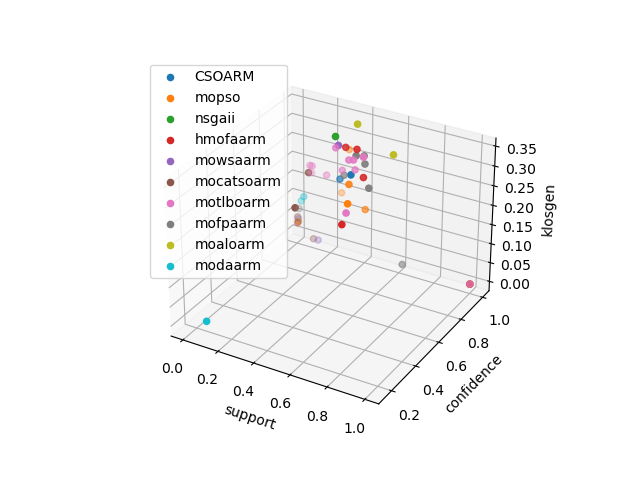
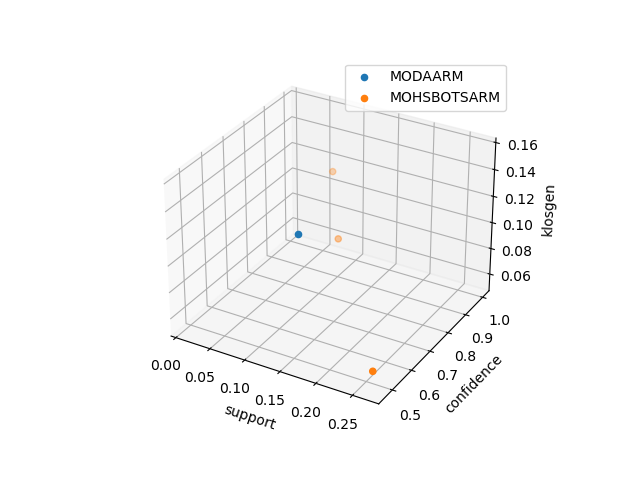
add bee swarm algorithm

diff --git a/src/Algorithm/MOHSBOTSARM.py b/src/Algorithm/MOHSBOTSARM.py
@@ -1,0 +1,102 @@
+from src.Utils.Fitness import *
+from src.Utils.Population import *
+import matplotlib.pyplot as plt
+import pandas as pd
+from scipy.spatial import distance
+from src.Utils.Graphs import *
+from time import time
+
+class MOHSBOTSARM:
+    def __init__(self,nbItem,populationSize,nbIteration,nbObjectifs,objectiveNames,data,
+                    nbChanges = 5, nbNeighbours = 50,
+                 save=True,display=True,path='Figures/'):
+        populationSize = nbItem*2
+        self.population = Population('horizontal_binary', populationSize, nbItem)
+        self.nbItem = nbItem
+        self.nbIteration = nbIteration
+        self.nbObjectifs = nbObjectifs
+        self.fitness = Fitness('horizontal_binary', objectiveNames, populationSize )
+        self.bestInd = copy.deepcopy(self.population.population[rd.randint(0,populationSize-1)])
+        self.bestIndScore = []
+        self.tabooList = []
+        self.danceTable = []
+        self.danceTableScore = []
+        self.save = save
+        self.display = display
+        self.path = path
+        self.executionTime = 0
+        self.nbNeighbours = nbNeighbours
+        self.nbChanges = nbChanges
+        self.fitness.ComputeScorePopulation(self.population.population, data)
+        self.UpdateBestInd()
+
+
+    def UpdateBestInd(self):
+        indexs = np.arange(self.population.populationSize)
+        paretoFront = np.ones(self.population.populationSize)
+        for i in range(self.population.populationSize):
+            for j in range(self.population.populationSize):
+                domination = self.fitness.Domination(self.fitness.scores[i],self.fitness.scores[j])
+                if domination == 1:
+                    paretoFront[i] = 0
+                    break
+        candidate = indexs[paretoFront == 1]
+        index = rd.choice(candidate)
+        self.bestInd = copy.deepcopy(self.population.population[index])
+        self.bestIndScore = copy.deepcopy(self.fitness.scores[index])
+
+    def FindSearchRegion(self):
+        for i in range(self.population.populationSize):
+            self.population.population[i] = self.population.InitIndividual_HorizontalBinary()
+            self.population.population[i,i] = self.bestInd[i]
+
+    def LocalSearch(self,bee,data):
+        bestInd = []
+        bestScore = np.zeros(self.nbObjectifs,dtype=float)
+        for j in range(self.nbNeighbours):
+            ind = copy.deepcopy(self.population.population[bee])
+            nbChange = rd.randint(1,self.nbChanges)
+            for i in range(nbChange):
+                index = rd.randint(0,self.nbItem*2-1)
+                ind[index] = rd.randint(-1,1)
+            score = self.fitness.ComputeScoreIndividual(ind,data)
+            domination = self.fitness.Domination(bestScore,score)
+            if domination == 1:
+                bestScore = score
+                bestInd = ind
+        return bestInd,bestScore
+
+    def BestOfDance(self):
+        indexs = np.arange(self.population.populationSize)
+        paretoFront = np.ones(self.population.populationSize)
+        for i in range(self.population.populationSize):
+            for j in range(self.population.populationSize):
+                domination = self.fitness.Domination(self.danceTableScore[i], self.danceTableScore[j])
+                if domination == 1:
+                    paretoFront[i] = 0
+                    break
+        candidate = indexs[paretoFront == 1]
+        index = rd.choice(candidate)
+        self.bestInd = copy.deepcopy(self.danceTable[index])
+        self.bestIndScore = copy.deepcopy(self.danceTableScore[index])
+
+    def Run(self,data,i):
+        t1 = time()
+        self.danceTable = []
+        self.danceTableScore = []
+        self.tabooList.append(list(self.bestInd))
+        self.FindSearchRegion()
+        self.fitness.ComputeScorePopulation(self.population.population,data)
+        for j in range(self.population.populationSize):
+            bestInd,bestScore = self.LocalSearch(j,data)
+            self.danceTable.append(bestInd)
+            self.danceTableScore.append(bestScore)
+        self.danceTable = np.array(self.danceTable)
+        self.danceTableScore = np.array(self.danceTableScore)
+        if list(self.bestInd) in self.tabooList:
+            index = rd.randint(0,len(self.tabooList)-1)
+            self.bestInd = copy.deepcopy(self.tabooList[index])
+        self.executionTime = time() - t1
+
+
+

diff --git a/main.py b/main.py
@@ -12,6 +12,7 @@ from src.Algorithm.MOTLBOARM import *
 from src.Algorithm.MOFPAARM import *
 from src.Algorithm.MOALOARM import *
 from src.Algorithm.MODAARM import *
+from src.Algorithm.MOHSBOTSARM import *
 
 from src.Utils.Performances import *
 
@@ -19,8 +20,8 @@ nbIteration = 20
 populationSize = 200
 objectiveNames = ['support','confidence','klosgen']
 criterionList = ['scores','execution time']
-#algorithmNameList = ['MODAARM','MOFPAARM']
-algorithmNameList = ['CSOARM','mopso','nsgaii','hmofaarm','mowsaarm','mocatsoarm','motlboarm','mofpaarm','moaloarm','modaarm']
+algorithmNameList = ['MODAARM','MOHSBOTSARM']
+#algorithmNameList = ['CSOARM','mopso','nsgaii','hmofaarm','mowsaarm','mocatsoarm','motlboarm','mofpaarm','moaloarm','modaarm']
 
 perf = Performances(algorithmNameList,criterionList,objectiveNames)
 data = pd.read_csv('Data/congress.csv')
@@ -37,9 +38,11 @@ motlboarm = MOTLBOARM(data.shape[1],populationSize,nbIteration,len(objectiveName
 mofpaarm = MOFPAARM(data.shape[1],populationSize,nbIteration,len(objectiveNames),objectiveNames,data,save=True,display=False,path='Figures/MOFPAARM/')
 moaloarm = MOALOARM(data.shape[1],populationSize,nbIteration,len(objectiveNames),objectiveNames,data,save=True,display=False,path='Figures/MOALOARM/')
 modaarm = MODAARM(data.shape[1],populationSize,nbIteration,len(objectiveNames),objectiveNames,data,save=True,display=False,path='Figures/MODAARM/')
+mohsbotsarm = MOHSBOTSARM(data.shape[1],populationSize,nbIteration,len(objectiveNames),objectiveNames,data,save=True,display=False,path='Figures/MODAARM/')
 
-algorithmList = [csoarm,mopso,nsgaii,hmofaarm,mowsaarm,mocatsoarm,motlboarm,mofpaarm,moaloarm,modaarm]
-#algorithmList = [modaarm,mofpaarm]
+
+#algorithmList = [csoarm,mopso,nsgaii,hmofaarm,mowsaarm,mocatsoarm,motlboarm,mofpaarm,moaloarm,modaarm]
+algorithmList = [modaarm,mohsbotsarm]
 for i in range(nbIteration):
     k = 0
     for alg in algorithmList:
